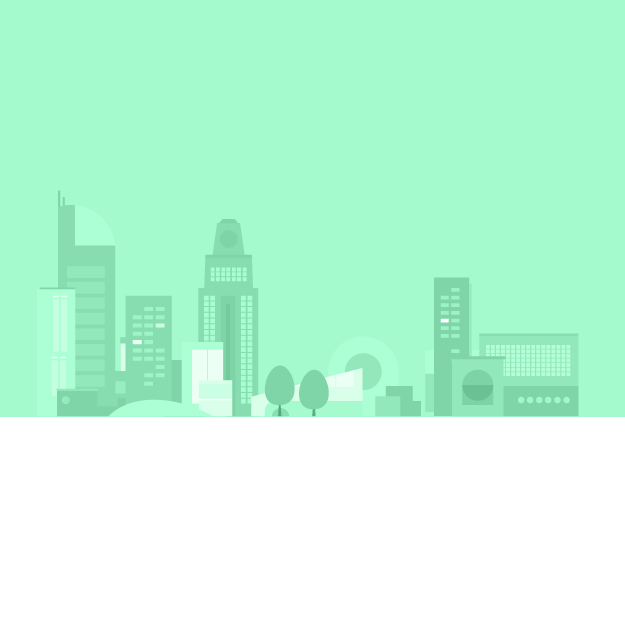
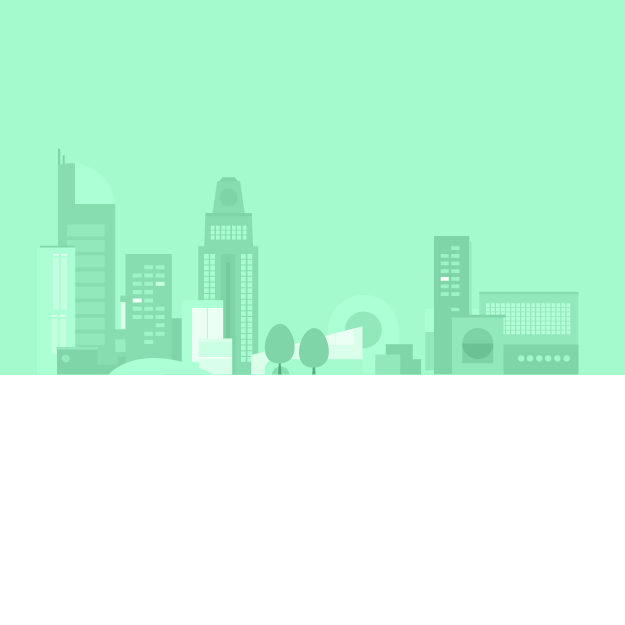
small stylingz

Changed region(s): [[0.0, 0.2736, 1.0, 0.6688], [0.0912, 0.2432, 0.1824, 0.3952], [0.7904, 0.456, 0.912, 0.4864]]

diff --git a/app/elements/labs002-components/labs002-woonst.html b/app/elements/labs002-components/labs002-woonst.html
@@ -66,13 +66,32 @@ See authors.md for a list of all members.
       background-color: white;
     }
 
-    .thumbcontainer {
+   .thumbcontainer {
       width: 100%;
-      max-width: 400px;
       height: 100%;
+      background-color: rgba(0,0,0,0.1);
+      position: relative;
+      background-color: white;
+      }
+
+    .avatarcontainer {
+      width: 100%;
+      max-width: 400px; 
+      height: 100vw;
+      max-height: 400px; 
       position: relative;
       background: linear-gradient(to bottom, #a4facd 60%, white 40%); 
+      @apply(--layout-vertical);
+      @apply(--layout-center);
+      }
+
+    .avatarcanvas {
+      width: 100%;  
+      background: linear-gradient(to bottom, #a4facd 60%, white 40%); 
+      @apply(--layout-vertical);
+      @apply(--layout-center);
     }
+
 
     .absolutepos {
       position: absolute;
@@ -319,7 +338,9 @@ See authors.md for a list of all members.
 
   <neon-animatable>
     <div class="canvas layout vertical center">
+
       <div class="avatarcanvas">
+        <div class="avatarcontainer">
         <div class="thumbcontainer">
             <div class="absolutepos">
               <labs002-avatar-backingpages 
@@ -344,6 +365,7 @@ See authors.md for a list of all members.
             </div>
           </div>
         </div>
+      </div>
         <div class="visualedit">
           <iron-collapse id="visualedit" opened="{{visualopen}}">
             <lo-colorpicker
@@ -352,10 +374,10 @@ See authors.md for a list of all members.
             <div class="itemselector">
               <iron-selector id="itemselector" attr-for-selected="context" selected="woonst" on-iron-select="passItem">
                 <div class="item" context="woonst">
-                  <img src="../../images/avatar-itemselectoricons-01.svg">
+                  <img src="../../images/woonst.svg">
                 </div>
                 <div class="item" context="backing">
-                  <img src="../../images/avatar-itemselectoricons-07.svg">
+                  <img src="../../images/backing.svg">
                 </div>              
               </iron-selector>
             </div>

diff --git a/app/elements/labs002-components/labs002-avatar.html b/app/elements/labs002-components/labs002-avatar.html
@@ -116,37 +116,23 @@ See authors.md for a list of all members.
       background-color: white;
       }
 
-
     .avatarcontainer {
       width: 100%;
       max-width: 400px; 
       height: 100vw;
       max-height: 400px; 
       position: relative;
-      background: linear-gradient(to bottom, #a4e5f9 50%, white 50%); 
+      background: linear-gradient(to bottom, #a4e5f9 60%, white 40%); 
       @apply(--layout-vertical);
       @apply(--layout-center);
       }
 
-
-
     .avatarcanvas {
       width: 100%;  
-      background: linear-gradient(to bottom, #a4e5f9 50%, white 50%); 
+      background: linear-gradient(to bottom, #a4e5f9 60%, white 40%); 
       @apply(--layout-vertical);
       @apply(--layout-center);
     }
-
-/*    .avatarcanvas {
-      background: linear-gradient(to bottom, #a4facd 60%, white 40% ); 
-      width: 100%;
-      height: 100vw;
-      max-height: 400px;
-      @apply(--layout-vertical);
-      @apply(--layout-center);
-    }*/
-
-
 
 
     .absolutepos {
